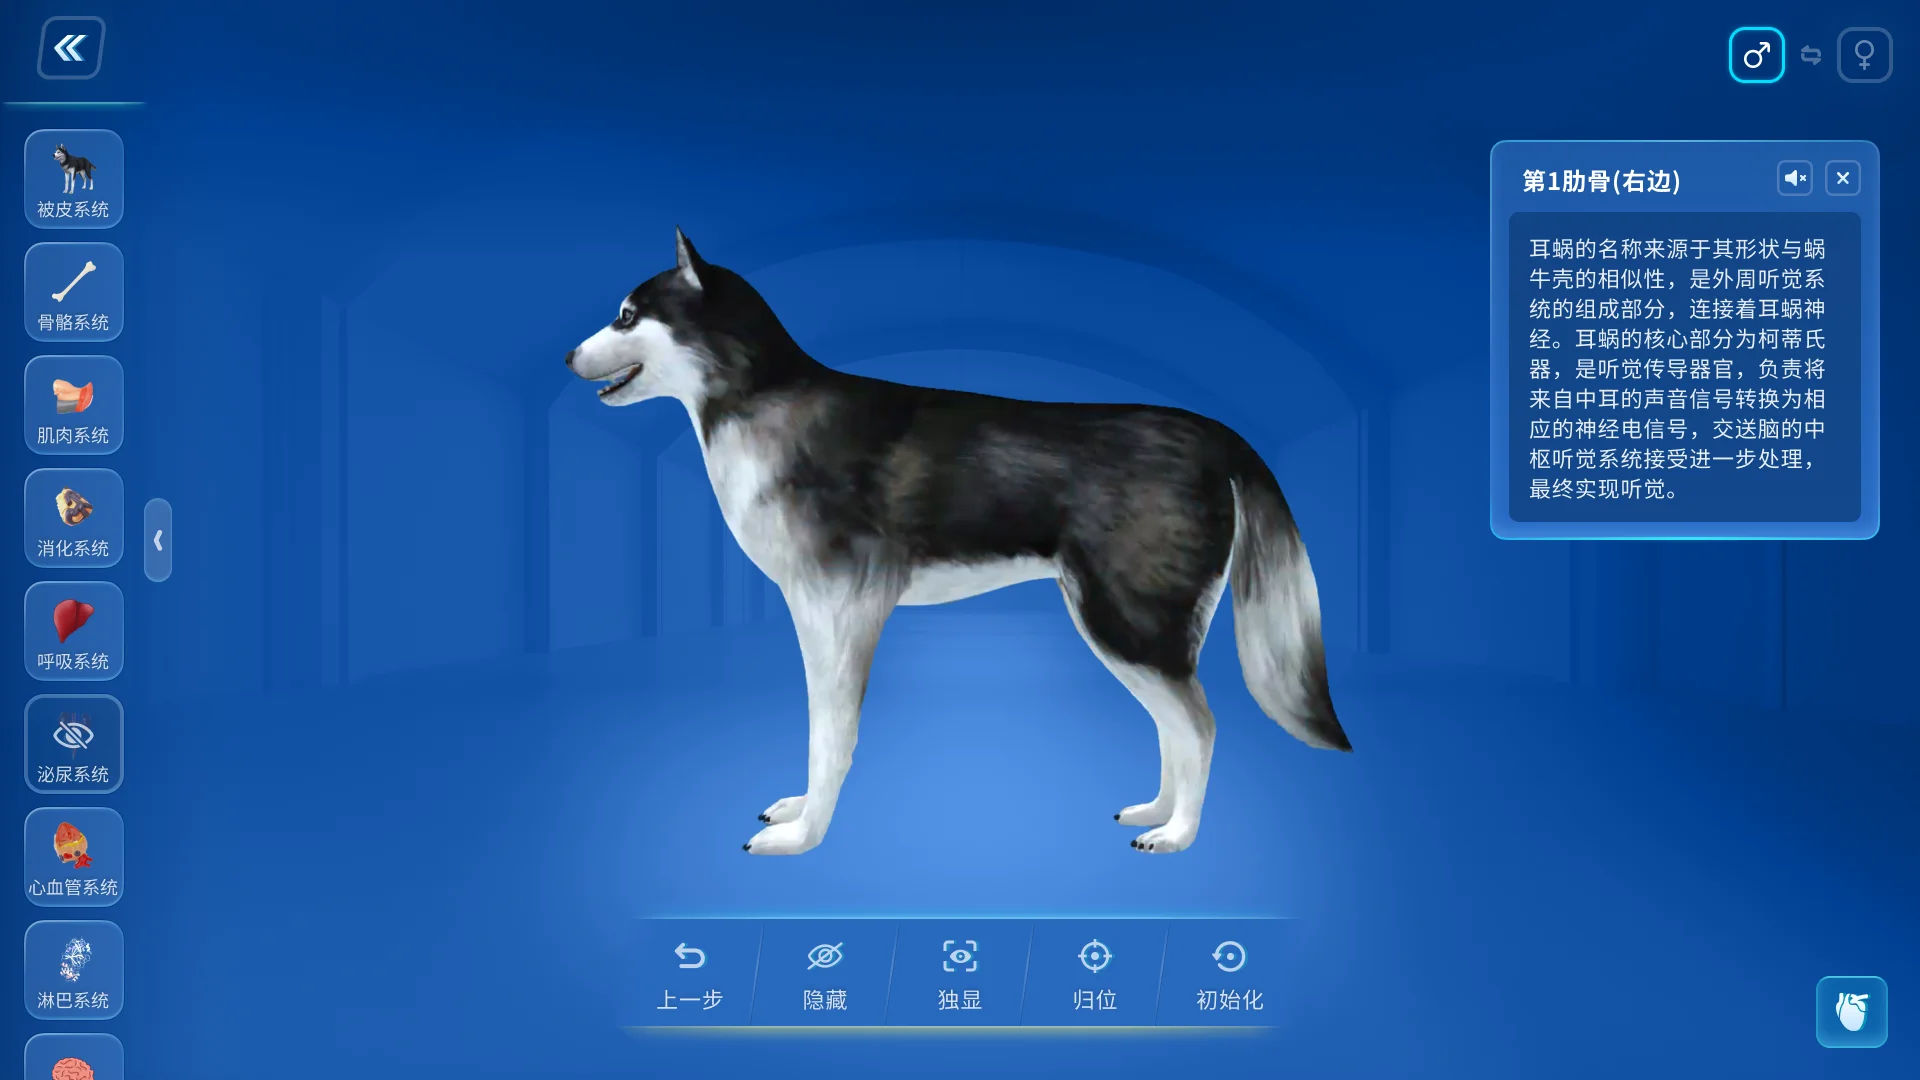
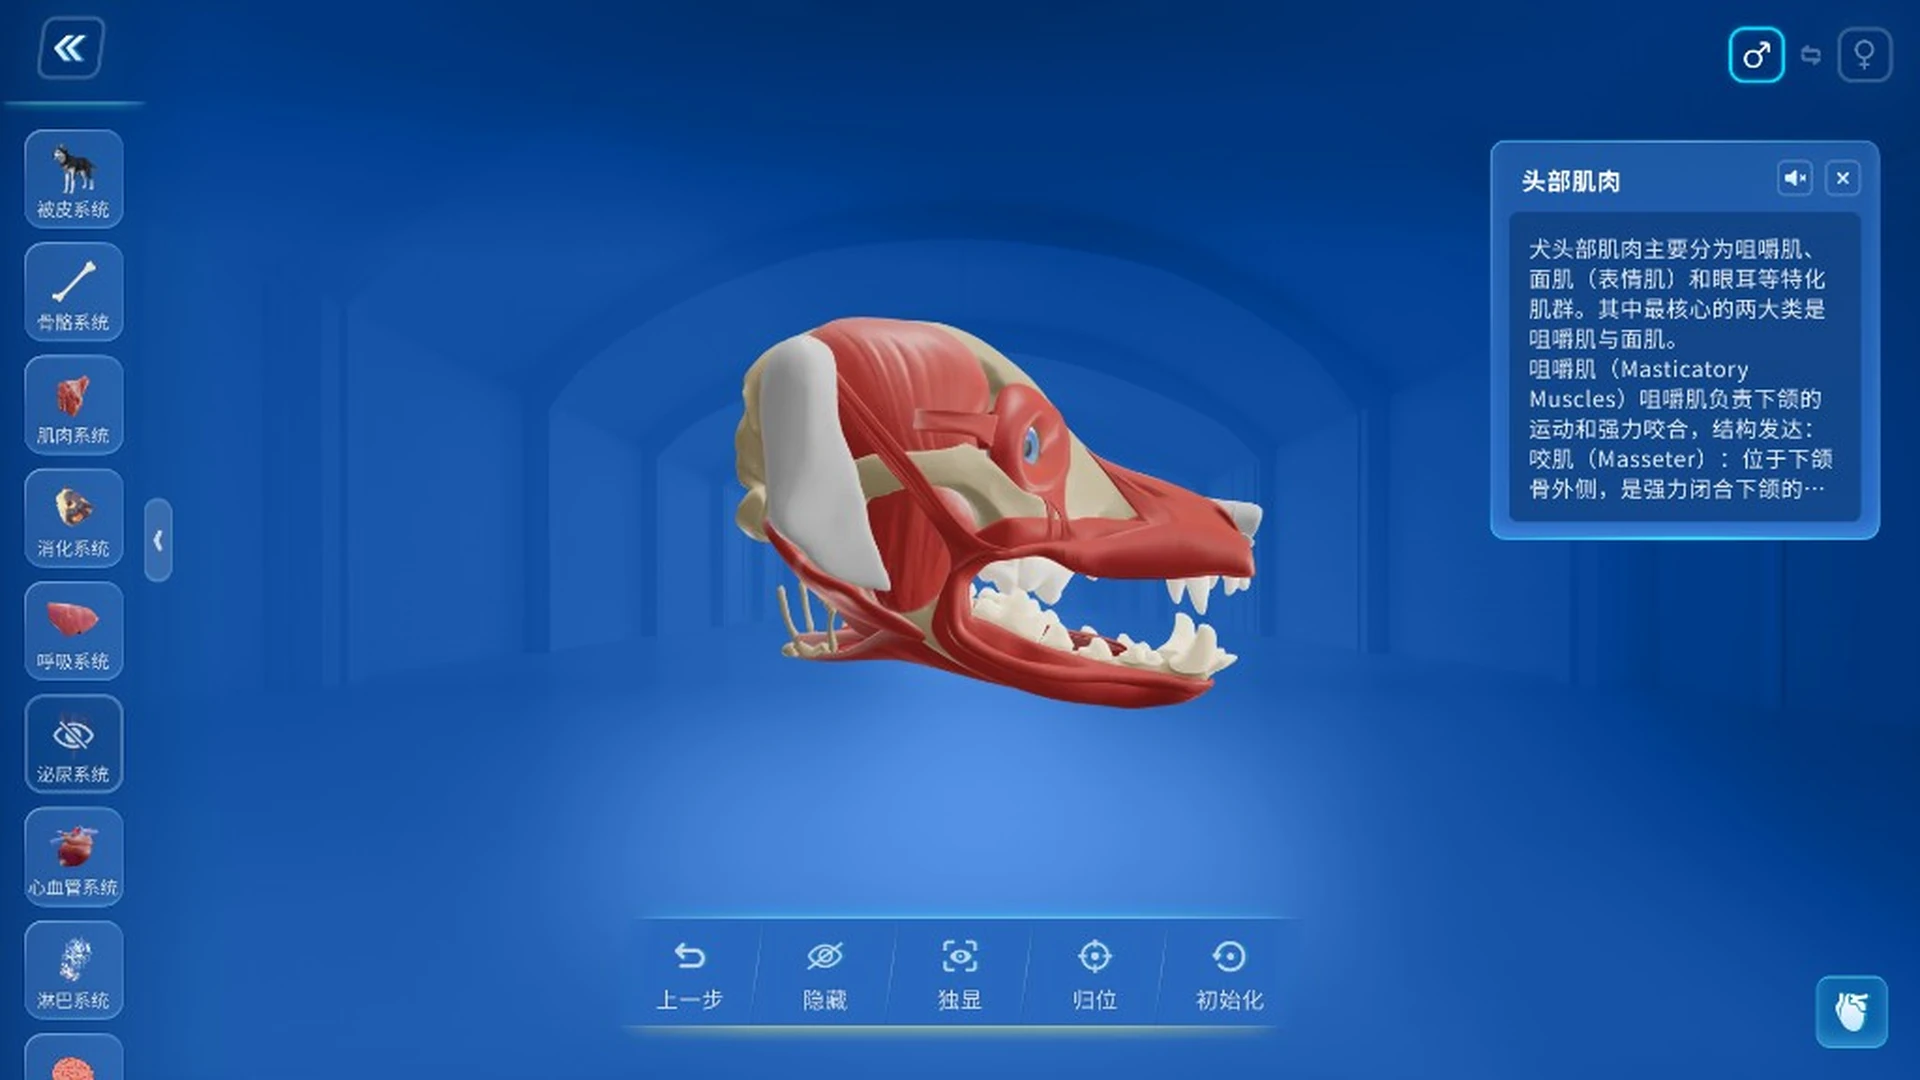
Refresh VR education visuals and cut page image weight by ~92%.
Replace scene screenshots, trim redundant carousel slides, relabel pig sections as cat anatomy, and convert PNG assets to 1680×945 WebP for faster loading.

diff --git a/src/app/[locale]/projects/biomedical-vr/animalVrAssets.ts b/src/app/[locale]/projects/biomedical-vr/animalVrAssets.ts
@@ -5,7 +5,7 @@ export type VisualShot = {
   carousel?: readonly string[];
 };
 
-export const biomedicalVrHero = "/images/visual/animal-vr/hero.png";
+export const biomedicalVrHero = "/images/visual/animal-vr/hero.webp";
 
 export const structureModuleShots: readonly VisualShot[] = [
   {
@@ -25,21 +25,17 @@ export const structureModuleShots: readonly VisualShot[] = [
   {
     title: { zh: "小脑结构", en: "Cerebellum structure" },
     subtitle: { zh: "恢复 / 整体移动", en: "Reset / move as whole" },
-    src: "/images/visual/animal-vr/brain-detail-1.webp",
-    carousel: [
-      "/images/visual/animal-vr/brain-detail-1.webp",
-      "/images/visual/animal-vr/brain-exploded-overview.webp",
-    ],
+    src: "/images/visual/animal-vr/brain-exploded-overview.webp",
   },
   {
     title: { zh: "耳朵的结构", en: "Ear structure" },
     subtitle: { zh: "首页展示", en: "Home screen" },
-    src: "/images/visual/animal-vr/ear-home.png",
+    src: "/images/visual/animal-vr/ear-home.webp",
   },
   {
     title: { zh: "耳蜗结构", en: "Cochlea structure" },
     subtitle: { zh: "结构说明", en: "Structure overview" },
-    src: "/images/visual/animal-vr/ear-detail-1.png",
+    src: "/images/visual/animal-vr/ear-detail-1.webp",
   },
 ];
 
@@ -48,33 +44,24 @@ export const anatomyModuleShots: readonly VisualShot[] = [
     title: { zh: "狗解剖", en: "Dog anatomy" },
     subtitle: { zh: "结构教学 / 交互状态", en: "Structure teaching / interaction states" },
     src: "/images/visual/animal-vr/dog-anatomy-scene-1.webp",
-    carousel: [
-      "/images/visual/animal-vr/dog-anatomy-scene-1.webp",
-      "/images/visual/animal-vr/dog-anatomy-scene-3.webp",
-    ],
   },
   {
-    title: { zh: "猪解剖", en: "Pig anatomy" },
+    title: { zh: "猫解剖", en: "Cat anatomy" },
     subtitle: { zh: "交互状态", en: "Interaction states" },
-    src: "/images/visual/animal-vr/pig-scene-3.png",
+    src: "/images/visual/animal-vr/pig-scene-3.webp",
   },
   {
-    title: { zh: "猪解剖", en: "Pig anatomy" },
+    title: { zh: "猫解剖", en: "Cat anatomy" },
     subtitle: { zh: "结构教学 / 场景概览", en: "Structure teaching / scene overview" },
-    src: "/images/visual/animal-vr/pig-scene-2.png",
-    carousel: [
-      "/images/visual/animal-vr/pig-scene-2.png",
-      "/images/visual/animal-vr/pig-scene-1.png",
-    ],
+    src: "/images/visual/animal-vr/pig-scene-2.webp",
   },
   {
-    title: { zh: "猪解剖", en: "Pig anatomy" },
-    subtitle: { zh: "课程列表 / 引导弹窗", en: "Course list / onboarding dialogs" },
-    src: "/images/visual/animal-vr/pig-course-list.png",
+    title: { zh: "猫解剖", en: "Cat anatomy" },
+    subtitle: { zh: "引导弹窗", en: "Onboarding dialogs" },
+    src: "/images/visual/animal-vr/pig-guide-1.webp",
     carousel: [
-      "/images/visual/animal-vr/pig-course-list.png",
-      "/images/visual/animal-vr/pig-guide-1.png",
-      "/images/visual/animal-vr/pig-guide-2.png",
+      "/images/visual/animal-vr/pig-guide-1.webp",
+      "/images/visual/animal-vr/pig-guide-2.webp",
     ],
   },
   {
@@ -84,12 +71,8 @@ export const anatomyModuleShots: readonly VisualShot[] = [
   },
   {
     title: { zh: "牛解剖", en: "Cattle anatomy" },
-    subtitle: { zh: "结构教学 / 新手指引", en: "Structure teaching / onboarding" },
+    subtitle: { zh: "结构教学", en: "Structure teaching" },
     src: "/images/visual/animal-vr/cow-scene-1.webp",
-    carousel: [
-      "/images/visual/animal-vr/cow-scene-1.webp",
-      "/images/visual/animal-vr/cow-guide-1.webp",
-    ],
   },
 ];
 

diff --git a/src/app/[locale]/projects/smart-manufacturing/smartManufacturingAssets.ts b/src/app/[locale]/projects/smart-manufacturing/smartManufacturingAssets.ts
@@ -1,17 +1,13 @@
 import type { VisualShot } from "../biomedical-vr/animalVrAssets";
 
 export const smartManufacturingHero =
-  "/images/visual/smart-manufacturing/transmission-home.png";
+  "/images/visual/smart-manufacturing/transmission-home.webp";
 
 export const transmissionModuleShots: readonly VisualShot[] = [
   {
     title: { zh: "变速器结构说明", en: "Transmission structure" },
     subtitle: { zh: "信息面板", en: "Info panel" },
-    src: "/images/visual/smart-manufacturing/transmission-detail.png",
-    carousel: [
-      "/images/visual/smart-manufacturing/transmission-detail.png",
-      "/images/visual/smart-manufacturing/transmission-exploded.png",
-    ],
+    src: "/images/visual/smart-manufacturing/transmission-detail.webp",
   },
 ];
 
@@ -19,21 +15,21 @@ export const equipmentModuleShots: readonly VisualShot[] = [
   {
     title: { zh: "工业机器人", en: "Industrial robot" },
     subtitle: { zh: "首页展示", en: "Home screen" },
-    src: "/images/visual/smart-manufacturing/robot-home.png",
+    src: "/images/visual/smart-manufacturing/robot-home.webp",
   },
   {
     title: { zh: "机器人机构说明", en: "Robot mechanism" },
     subtitle: { zh: "教学子页面", en: "Teaching subpage" },
-    src: "/images/visual/smart-manufacturing/robot-detail.png",
+    src: "/images/visual/smart-manufacturing/robot-detail.webp",
   },
   {
     title: { zh: "注塑两板式模具", en: "Two-plate injection mold" },
     subtitle: { zh: "首页展示", en: "Home screen" },
-    src: "/images/visual/smart-manufacturing/molding-home.png",
+    src: "/images/visual/smart-manufacturing/molding-home.webp",
   },
   {
     title: { zh: "注塑模具装配", en: "Injection mold assembly" },
     subtitle: { zh: "操作子页面", en: "Operation subpage" },
-    src: "/images/visual/smart-manufacturing/molding-detail.png",
+    src: "/images/visual/smart-manufacturing/molding-detail.webp",
   },
 ];

diff --git a/src/app/[locale]/projects/biomedical-vr/biomedicalVr.module.css b/src/app/[locale]/projects/biomedical-vr/biomedicalVr.module.css
@@ -145,7 +145,7 @@
 
 .sceneTitle {
   margin: 0 0 16px;
-  font-size: 1.125rem;
+  font-size: var(--fs-body);
   font-weight: 500;
   color: #1a1a1a;
   line-height: 1.5;